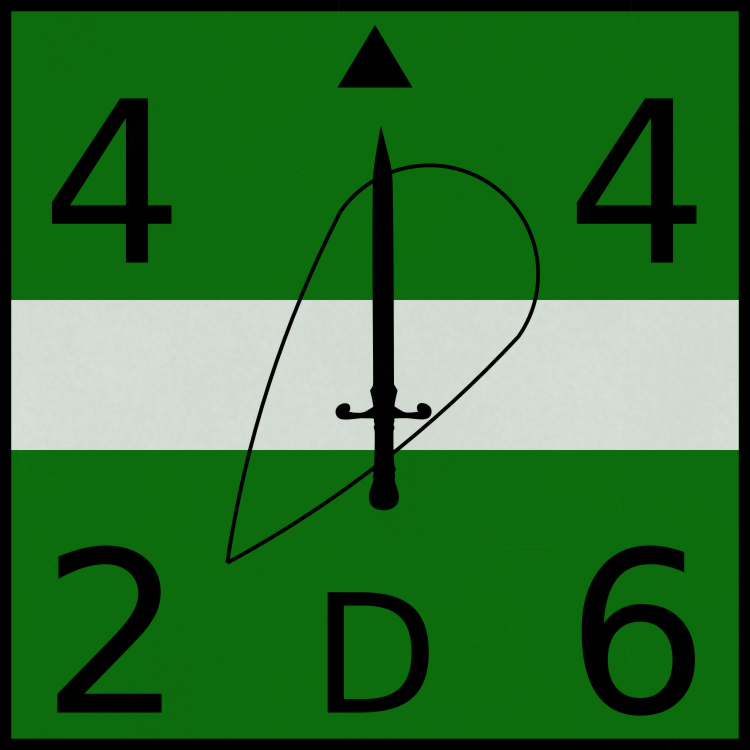
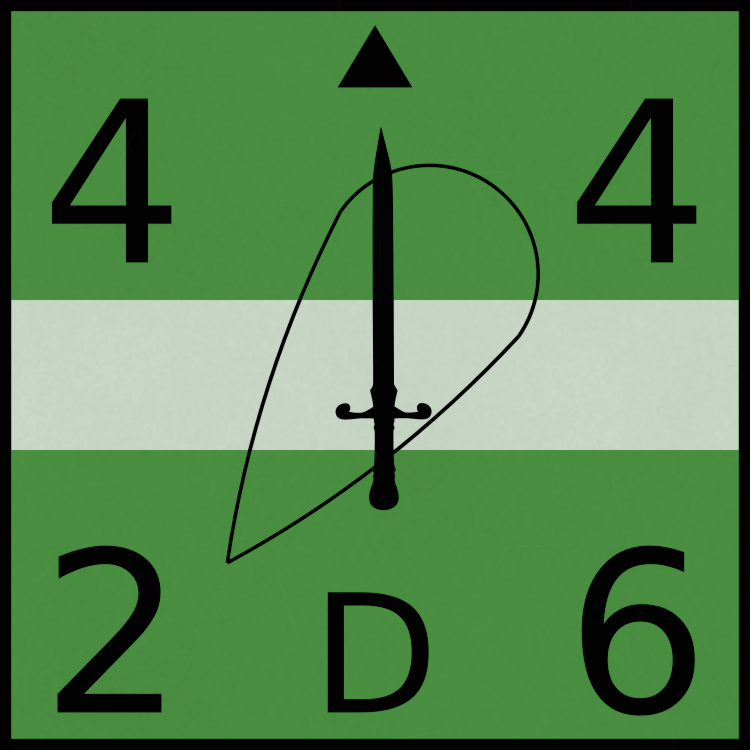
Improve Norman counter value contrast

diff --git a/Tools/generate_counters.py b/Tools/generate_counters.py
@@ -6,7 +6,7 @@ import math
 import random
 from pathlib import Path
 
-from PIL import Image, ImageChops, ImageDraw, ImageEnhance, ImageFilter, ImageOps
+from PIL import Image, ImageChops, ImageDraw, ImageEnhance, ImageFilter, ImageOps, ImageStat
 
 
 ROOT = Path(__file__).resolve().parents[1]
@@ -14,10 +14,32 @@ SOURCE = ROOT / "Images/Counters"
 DESTINATION = ROOT / "UnityProject/Assets/Resources/Art/Counters"
 
 
+def improve_ink_contrast(image):
+    """Lift the darker faction inks before applying the shared paper finish."""
+    median = ImageStat.Stat(image).median
+    red = median[0] > median[1] * 2 and median[0] > median[2] * 2
+    green = median[1] > median[0] * 1.5 and median[1] > median[2] * 1.5
+    if not red and not green:
+        return image
+
+    red_channel, green_channel, blue_channel = image.split()
+    if red:
+        dominance = ImageChops.subtract(red_channel,
+                                        ImageChops.lighter(green_channel, blue_channel))
+        ink = Image.new("RGB", image.size, (235, 78, 62))
+    else:
+        dominance = ImageChops.subtract(green_channel,
+                                        ImageChops.lighter(red_channel, blue_channel))
+        # The supplied green is only half intensity, so normalize its mask.
+        dominance = ImageEnhance.Brightness(dominance).enhance(2)
+        ink = Image.new("RGB", image.size, (70, 162, 58))
+    return Image.composite(ink, image, dominance)
+
+
 def style_counter(path):
     source = Image.open(path).convert("RGBA")
     alpha = source.getchannel("A")
-    image = source.convert("RGB")
+    image = improve_ink_contrast(source.convert("RGB"))
 
     # Replace flat screen primaries with the quieter ink colors of a printed
     # counter while retaining the strong faction distinctions and black type.
